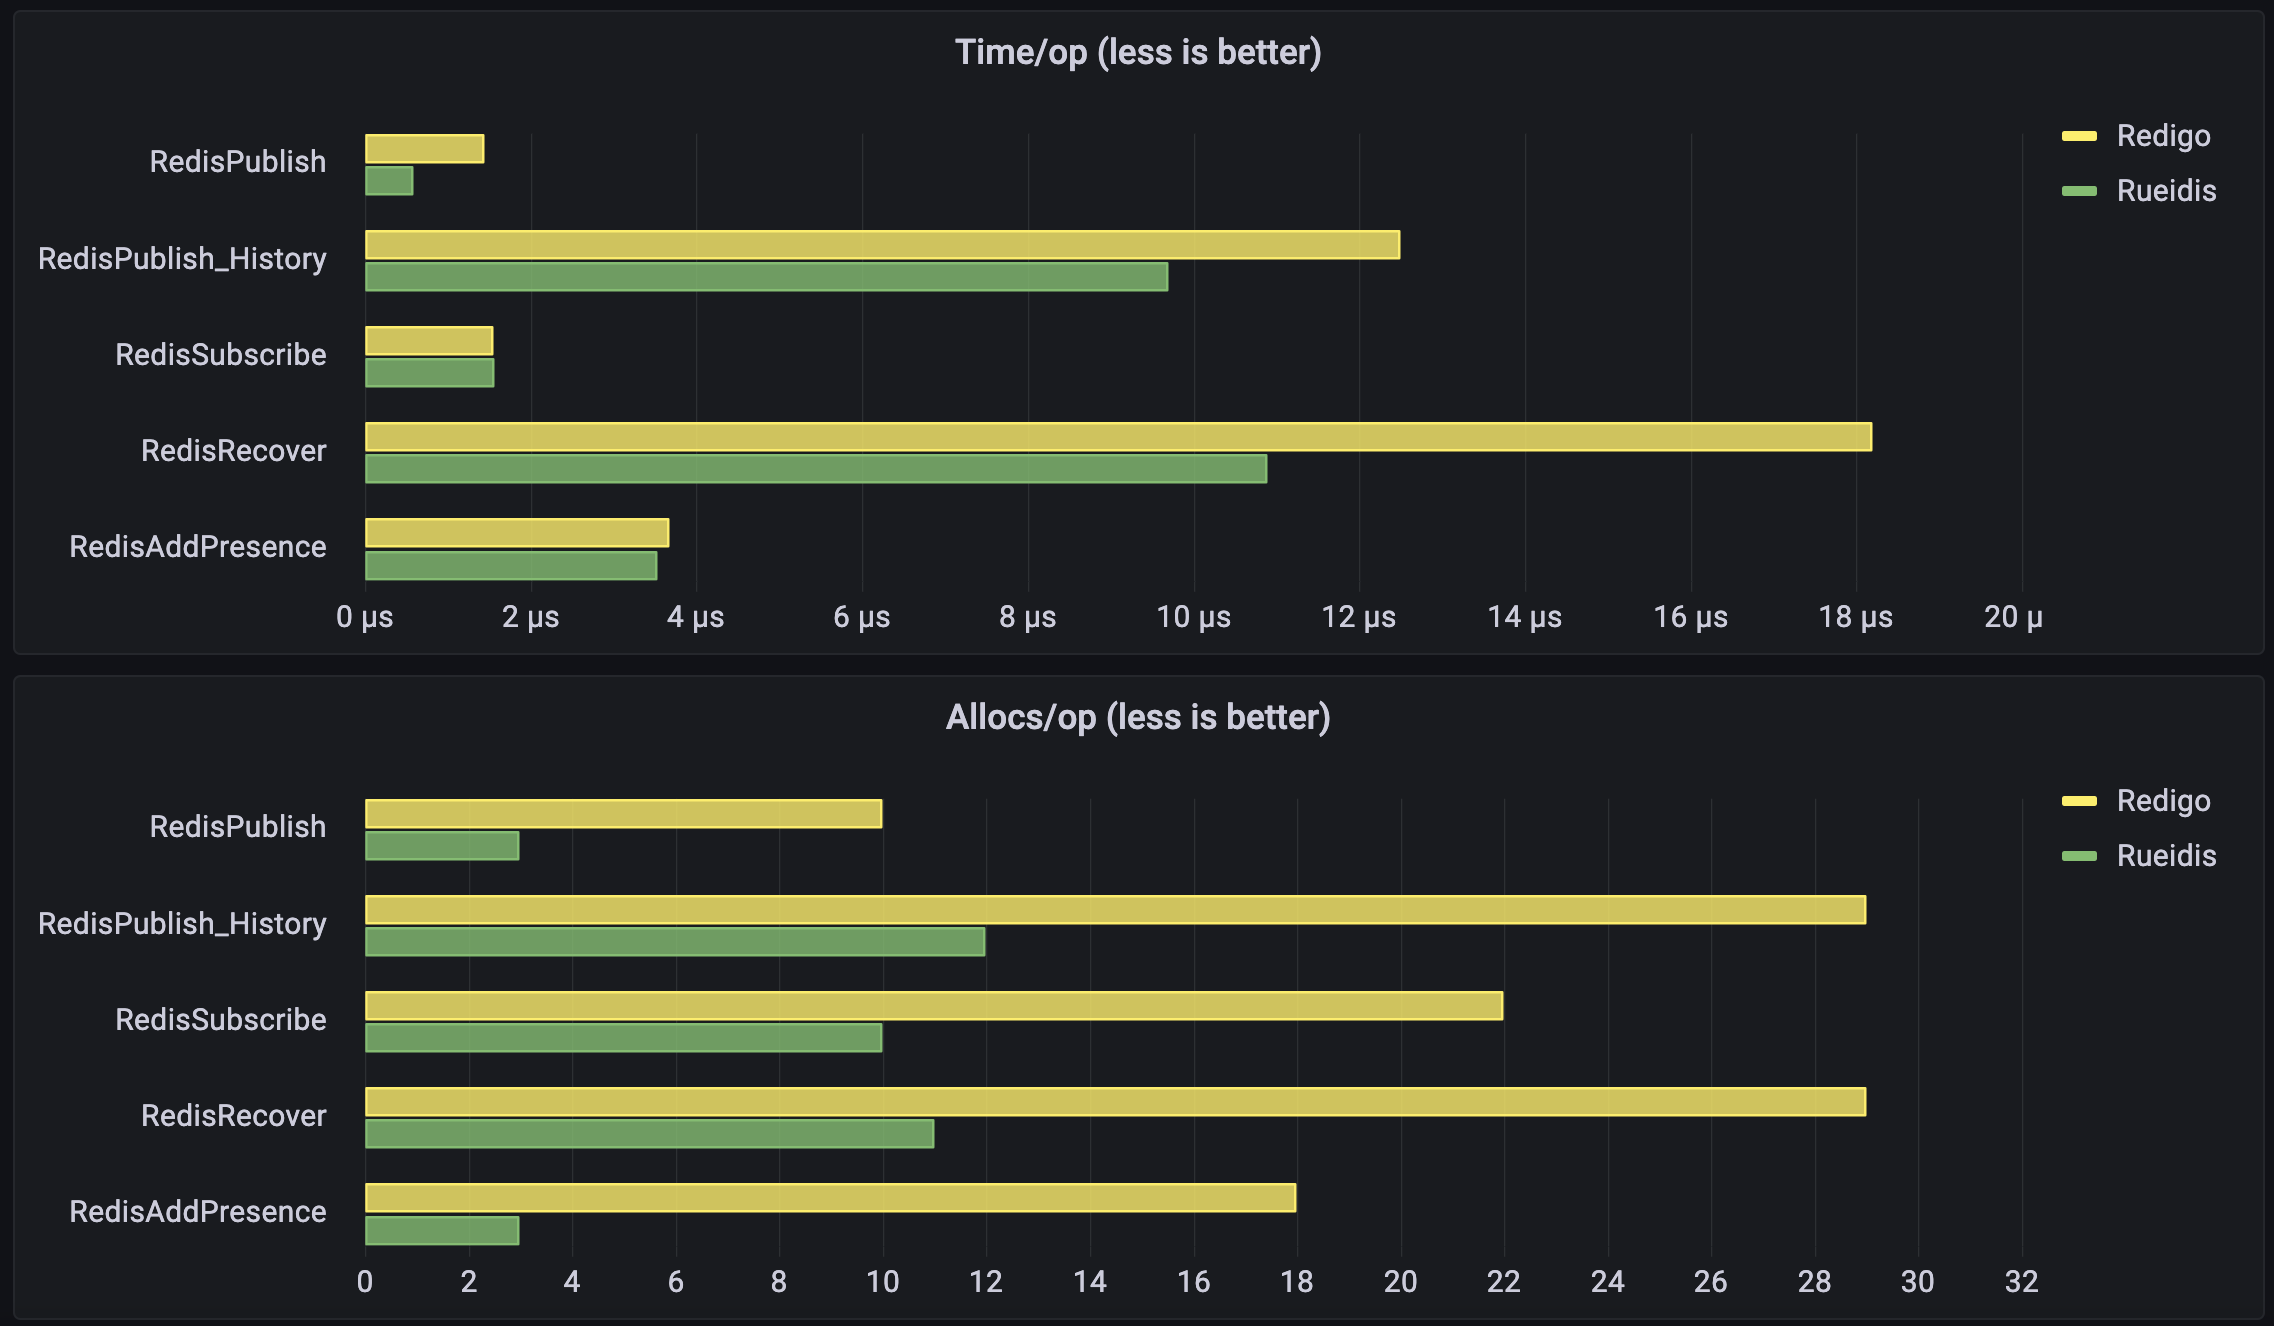
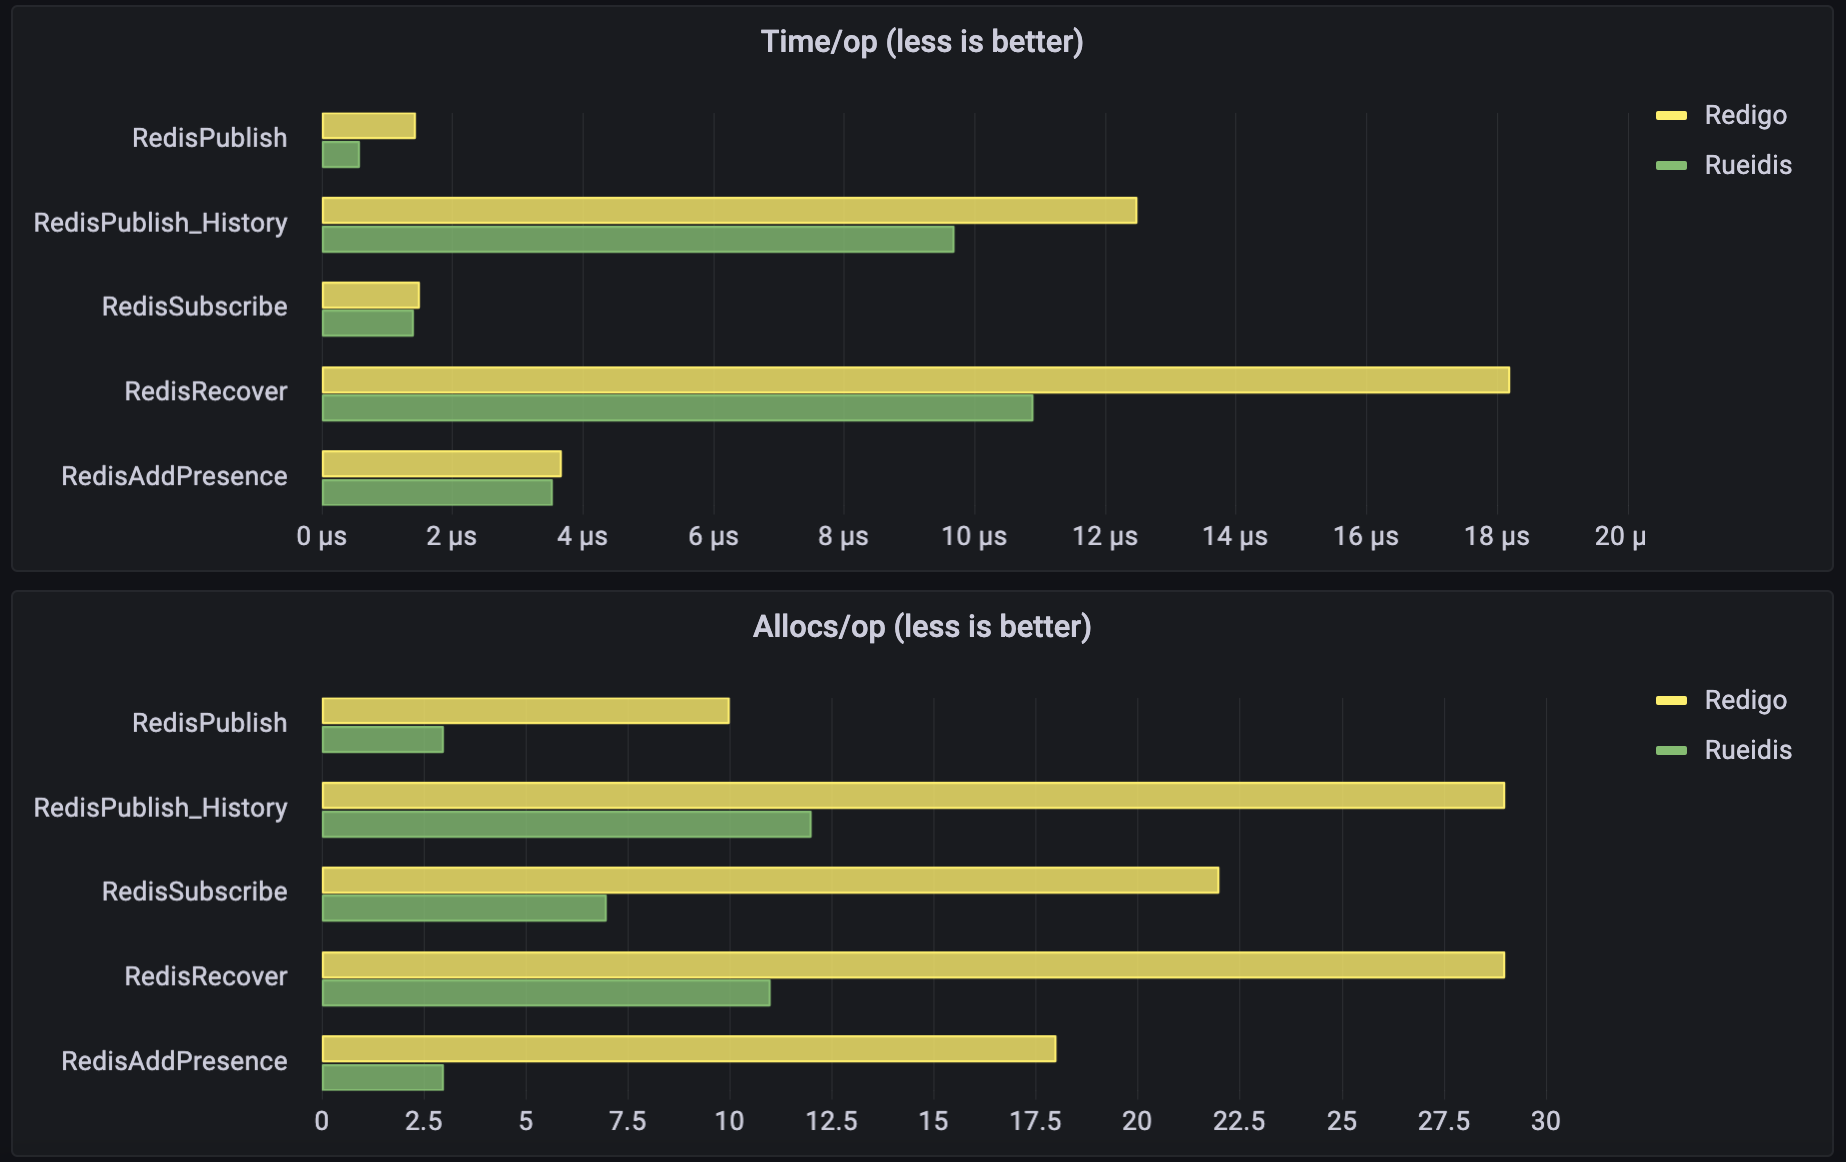
post updates

diff --git a/blog/2022-12-13-improving-redis-engine-performance.md b/blog/2022-12-13-improving-redis-engine-performance.md
@@ -196,6 +196,8 @@ BenchmarkRedigoPipelininig-8   1840758     604.7 ns/op      176 B/op     4 alloc
 
 Operation latency reduced from 4648 ns/op to 604.7 ns/op – not bad right?
 
+It's worth mentioning that upon increased RTT between application and Redis the approach with pipelining will provide more poor throughput. But it still can be better than in pool-based approach. Let's say we have latency 5ms between app and Redis. This means that with pool size of 128 you will be able to issue up to `128 * (1000 / 5) = 25600` requests per second. With the pipelining approach above it may be up to `512 * (1000 / 5) = 102400` requests per second. And it can scale further if you increase `numPipelineWorkers`. Though increasing `numPipelineWorkers` has negative effect on CPU – we will discuss this later in this post.
+
 Redigo is an awesome battle-tested library that served us great for a long time.
 
 ## Motivation to migrate
@@ -438,21 +440,21 @@ Regarding performance, here are the benchmark results we got when comparing `red
 name                      old time/op    new time/op    delta
 RedisPublish-8            1.45µs ± 6%    0.59µs ± 3%  -59.67%  (p=0.000 n=9+8)
 RedisPublish_History-8    12.5µs ± 7%     9.7µs ± 0%  -22.28%  (p=0.000 n=10+10)
-RedisSubscribe-8          1.56µs ±32%    1.57µs ± 9%     ~     (p=0.975 n=30+28)
+RedisSubscribe-8          1.50µs ±28%    1.42µs ± 3%     ~     (p=1.000 n=10+10)
 RedisRecover-8            18.2µs ± 3%    10.9µs ± 1%  -40.01%  (p=0.000 n=10+10)
 RedisAddPresence-8        3.68µs ± 1%    3.54µs ± 0%   -3.86%  (p=0.000 n=10+9)
 
 name                     old alloc/op   new alloc/op   delta
 RedisPublish-8              483B ± 0%      171B ± 0%  -64.66%  (p=0.000 n=10+10)
 RedisPublish_History-8    1.30kB ± 0%    0.55kB ± 1%  -57.68%  (p=0.000 n=8+10)
-RedisSubscribe-8            896B ± 1%      699B ± 0%  -22.07%  (p=0.000 n=30+30)
+RedisSubscribe-8            902B ± 1%      440B ± 0%  -51.20%  (p=0.000 n=10+10)
 RedisRecover-8            1.25kB ± 0%    0.59kB ± 1%  -53.08%  (p=0.000 n=10+10)
 RedisAddPresence-8          907B ± 0%      149B ± 2%  -83.52%  (p=0.000 n=10+10)
 
 name                    old allocs/op  new allocs/op  delta
 RedisPublish-8              10.0 ± 0%       3.0 ± 0%  -70.00%  (p=0.000 n=10+10)
 RedisPublish_History-8      29.0 ± 0%      12.0 ± 0%  -58.62%  (p=0.000 n=10+10)
-RedisSubscribe-8            22.0 ± 0%      10.0 ± 0%  -54.55%  (p=0.000 n=30+30)
+RedisSubscribe-8            22.0 ± 0%       7.0 ± 0%  -68.18%  (p=0.000 n=10+10)
 RedisRecover-8              29.0 ± 0%      11.0 ± 0%  -62.07%  (p=0.000 n=10+10)
 RedisAddPresence-8          18.0 ± 0%       3.0 ± 0%  -83.33%  (p=0.000 n=10+10)
 ```
@@ -481,13 +483,13 @@ I ran Centrifugo with some artificial load and noticed that CPU consumption of n
 
 As I mentioned above Redis pipelining is a technique when several commands may be combined into one batch to send over the network. In case of automatic pipelining the size of generated batches start playing a crucial role in application and Redis CPU usage – since smaller command batches result into more read/write system calls on both application and Redis sides. That's why projects like [Twemproxy](https://github.com/twitter/twemproxy) which sit between app and Redis have sich a good effect on Redis CPU usage among other things. 
 
-As we have seen above, Rueidis provides a better throughput and latency, but it's more agressive in terms of flushing data to the network. So in its default configuration we get smaller batches than we had before in our own pipelining implementation based on Redigo (shown in the beginning of this post).
+As we have seen above, Rueidis provides a better throughput and latency, but it's more agressive in terms of flushing data to the network. So in its default configuration we get smaller batches under th equal conditions than we had before in our own pipelining implementation based on Redigo (shown in the beginning of this post).
 
-There is an option in Rueidis though called `MaxFlushDelay` which allows to slow down write loop a bit to give Rueidis a chance to collect more commands to send in one batch. Using some reasonable value it's possible to drastically reduce both application and Redis CPU utilization.
+Luckily, there is an option in Rueidis called `MaxFlushDelay` which allows to slow down write loop a bit to give Rueidis a chance to collect more commands to send in one batch. Using some reasonable value it's possible to drastically reduce both application and Redis CPU utilization.
 
 To demonstrate this I created a repo: https://github.com/FZambia/pipelines.
 
-This repo contains three benchmarks where we use automatic pipelining: based on `redigo`, based on `go-redis/redis` and `rueidis`. In these benchmarks we produce concurrent requests, but instead of pushing the system towards limits we are limiting number of requests sent to Redis.
+This repo contains three benchmarks where we use automatic pipelining: based on `redigo`, based on `go-redis/redis` and `rueidis`. In these benchmarks we produce concurrent requests, but instead of pushing the system towards the limits we are limiting number of requests sent to Redis, so we put all libraries in equal conditions.
 
 To rate limit requests we are using [uber-go/ratelimit](https://github.com/uber-go/ratelimit) library. For example, to allow rate no more than 100k commands per second we can do sth like this:
 
@@ -523,40 +525,66 @@ Now CPU usage is:
 | Application CPU, % | 95            | 99             |  <span style={{color: 'green'}}>59</span>            |
 | Redis CPU, %       | 36             | 35              | <span style={{color: 'green'}}>12</span>              |
 
-As we can see we can achieve great CPU usage reduction with it. It went from 116% to 59% for the application side, and from 42% to only 12% for Redis! We are sacrificing latency though. Given the fact the CPU utilization reduction is very notable the trade-off is pretty fair. As you can see we were able to achieve better CPU results just by using 100 microseconds delay to each request. In real life when we are not running Redis on localhost and have some network latency in between application and Redis this delay should be insignificant. Indeed, it can even improve (!) the latency you have. You may wonder what happened with benchmarks we showed above after we added `MaxFlushDelay` option. In Centrifugo we chose default value 100 microseconds, and here are results on localhost (old without delay, new with delay):
+As we can see we can achieve great CPU usage reduction with it. It went from 116% to 59% for the application side, and from 42% to only 12% for Redis! We are sacrificing latency though. Given the fact the CPU utilization reduction is very notable the trade-off is pretty fair.
+
+As you can see we were able to achieve better CPU results just by using 100 microseconds delay to each request. In real life, where we are not running Redis on localhost and have some network latency in between application and Redis, this delay should be insignificant. Indeed, it can even improve (!) the latency you have. You may wonder what happened with benchmarks we showed above after we added `MaxFlushDelay` option. In Centrifugo we chose default value 100 microseconds, and here are results on localhost (old without delay, new with delay):
 
 ```
 name                      old time/op    new time/op    delta
 RedisPublish-8             574ns ± 3%     486ns ± 3%  -15.35%  (p=0.000 n=9+10)
 RedisPublish_History-8    9.65µs ± 1%    9.60µs ± 1%   -0.50%  (p=0.014 n=9+9)
-RedisSubscribe-8          1.46µs ± 3%    1.38µs ± 5%   -5.23%  (p=0.000 n=9+10)
+RedisSubscribe-8          1.42µs ± 3%    1.27µs ± 2%  -10.69%  (p=0.000 n=10+10)
 RedisRecover-8            10.8µs ± 0%    10.6µs ± 0%   -1.36%  (p=0.000 n=9+9)
 RedisAddPresence-8        3.56µs ± 1%    3.31µs ± 0%   -7.14%  (p=0.000 n=10+10)
 
 name                     old alloc/op   new alloc/op   delta
 RedisPublish-8              171B ± 0%      171B ± 0%     ~     (all equal)
 RedisPublish_History-8      554B ± 1%      556B ± 1%     ~     (p=0.714 n=10+10)
-RedisSubscribe-8            702B ± 0%      702B ± 0%   +0.11%  (p=0.010 n=10+10)
+RedisSubscribe-8            440B ± 0%      440B ± 0%     ~     (all equal)
 RedisRecover-8              590B ± 1%      589B ± 1%     ~     (p=0.651 n=10+10)
 RedisAddPresence-8          231B ± 1%      231B ± 1%     ~     (p=0.768 n=9+9)
 
 name                    old allocs/op  new allocs/op  delta
 RedisPublish-8              3.00 ± 0%      3.00 ± 0%     ~     (all equal)
 RedisPublish_History-8      12.0 ± 0%      12.0 ± 0%     ~     (all equal)
-RedisSubscribe-8            10.0 ± 0%      10.0 ± 0%     ~     (all equal)
+RedisSubscribe-8            7.00 ± 0%      7.00 ± 0%     ~     (all equal)
 RedisRecover-8              11.0 ± 0%      11.0 ± 0%     ~     (all equal)
 RedisAddPresence-8          4.00 ± 0%      4.00 ± 0%     ~     (all equal)
 ```
 
-It's even better for this set of benchmarks. Though while it's better for these benchmarks the numbers may differ for other under different conditions.
+It's even better for this set of benchmarks. Though while it's better for these benchmarks the numbers may differ for other under different conditions. For example, in the benchmarks we run we use concurrency 128, if we reduce concurrency we will notice reduced throughput – as batches Rueidis collects will be smaller. Smaller batches + some delay to collect = less requests per second to send.
 
-It's possible to tune `MaxFlushDelay` value further (towards 1 millisecond or even higher) to create even larger batches and further decrease CPU utilization – the problem is that the value to pause Rueidis write loop is a very use case specific, it's pretty hard to provide a reasonable default for it. Depending on request rate/size, network latency etc. you may choose a larger or smaller delay. If you have read-heavy then effect of the option reduces.
+The problem is that the value to pause Rueidis write loop is a very use case specific, it's pretty hard to provide a reasonable default for it. Depending on request rate/size, network latency etc. you may choose a larger or smaller delay. In v4.1.0 we start with hardcoded `MaxFlushDelay` - though possibly we will have to make it tunable later.
 
-What I did for Centrifugo is went through the set of benchmarks for common operations we have and made sure CPU usage of Centrifugo and Redis is lower or comparable than before under equal load conditions. That was a tedious manual work, possibly it should be automated in the future.
+Hope you understand now why increasing `numPipelineWorkers` value in the pipelining code showed here before results into better throughput but increased CPU usage on app and Redis sides – due to smaller batch sizes and more read/write system calls as the consequence.
 
-There is a chance that Rueidis may provide smarter solution for batching in the future, so that the library itself could automatically optimize batching algorithm for changing conditions. It's rather complicated task though, for now manual control seems better than nothing.
+## Adding latency
 
-It's worth mentioning that it's also possible to reduce CPU by finding a good batch size with `redigo` and `go-redis/redis` when using pipelining – as they provide a low level access to a dedicated connection. Indeed, having lesser `numPipelineWorkers` value in the code I provided above has a positive effect on CPU, but negative effect on latency/throughput.
+The last thing to check is how new implementation works upon increased RTT between application and Redis. To add artificial latency on localhost one can use `tc` tool as [shown here](https://daniel.haxx.se/blog/2010/12/14/add-latency-to-localhost/) by Daniel Stenberg. But I am on MacOS so the simplest way I found was using [Shopify/toxiproxy](https://github.com/Shopify/toxiproxy). Sth like running a server:
+
+```bash
+toxyproxy-server
+```
+
+And then in another terminal I used `toxiproxy-cli` to create toxic Redis proxy with additional latency on port 26379:
+
+```bash
+toxiproxy-cli create -l localhost:26379 -u localhost:6379 toxic_redis
+toxiproxy-cli toxic add -t latency -a latency=5 toxic_redis
+```
+
+The benchmark results are (we only interested in time/op here as allocs difference already shown above and it's the same here):
+
+```
+name                      old time/op    new time/op    delta
+RedisPublish-8            31.8µs ± 2%     5.5µs ± 3%   -82.58%  (p=0.000 n=10+10)
+RedisPublish_History-8    63.3µs ± 1%    10.8µs ± 2%   -82.97%  (p=0.000 n=10+10)
+RedisSubscribe-8          1.74µs ± 6%    6.08µs ± 7%  +249.97%  (p=0.000 n=8+10)
+RedisRecover-8            47.2µs ± 2%     7.5µs ± 5%   -84.07%  (p=0.000 n=10+10)
+RedisAddPresence-8        51.6µs ± 5%     5.7µs ± 2%   -88.92%  (p=0.000 n=10+8)
+```
+
+We see that new Engine implementation behaves much better for most cases. But what happened to Subscribe operation? It's 4x worse! Turned out I did not know that when we call `Subscribe` command in Redigo we only flush data to the network without waiting synchronously for subscribe result. It makes sense in general, but in Centrifugo we relied on the returned error thinking that it includes succesful subscription result from Redis - meaning that we already subscribed to a channel. And this could actually lead to some rare bugs in Centrifugo. So here the behavior of `rueidis` while differs from `redigo` in terms of throughput under increased latency just fits Centrifugo better in terms of behavior. So we go with it.
 
 ## Conclusion
 
@@ -564,7 +592,7 @@ Migrating from Redigo to Rueidis library was not just a task of rewriting code, 
 
 I think that we will find more projects in Go ecosystem using `rueidis` library shortly. Not just because of its allocation efficiency and out-of-the-box throughput, but also due to a convenient type-safe command API and possibility to reduce CPU utilization of Redis.
 
-For most Centrifugo users this migration means more efficient CPU usage as new implementation allocates less memory (less work to allocate and less strain on GC) and we tried to find a reasonable batch size to reduce system calls for common operations. While latency and throughput of single Centrifugo node should be better.
+For most Centrifugo users this migration means more efficient CPU usage as new implementation allocates less memory (less work to allocate and less strain on GC) and we tried to find a reasonable batch size to reduce system calls for common operations. While latency and throughput of single Centrifugo node should be better as we make concurrent Redis calls from many goroutines.
 
 Hopefully readers will learn some tips from this text which can help to achieve effective communication with Redis from Go or another programming language. To summarise:
 
